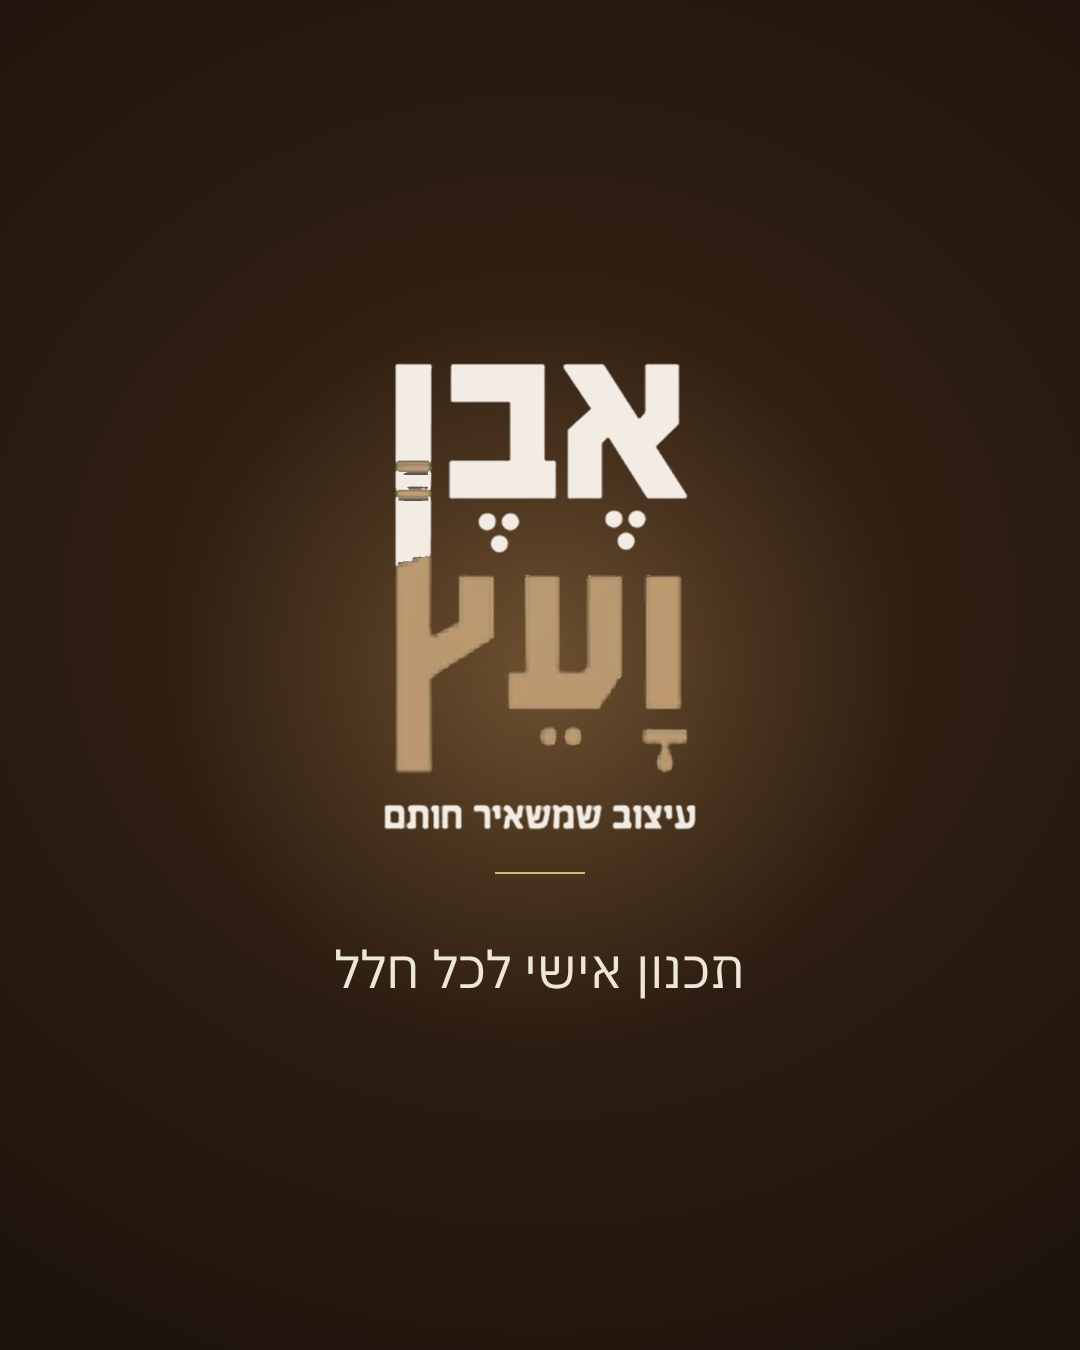
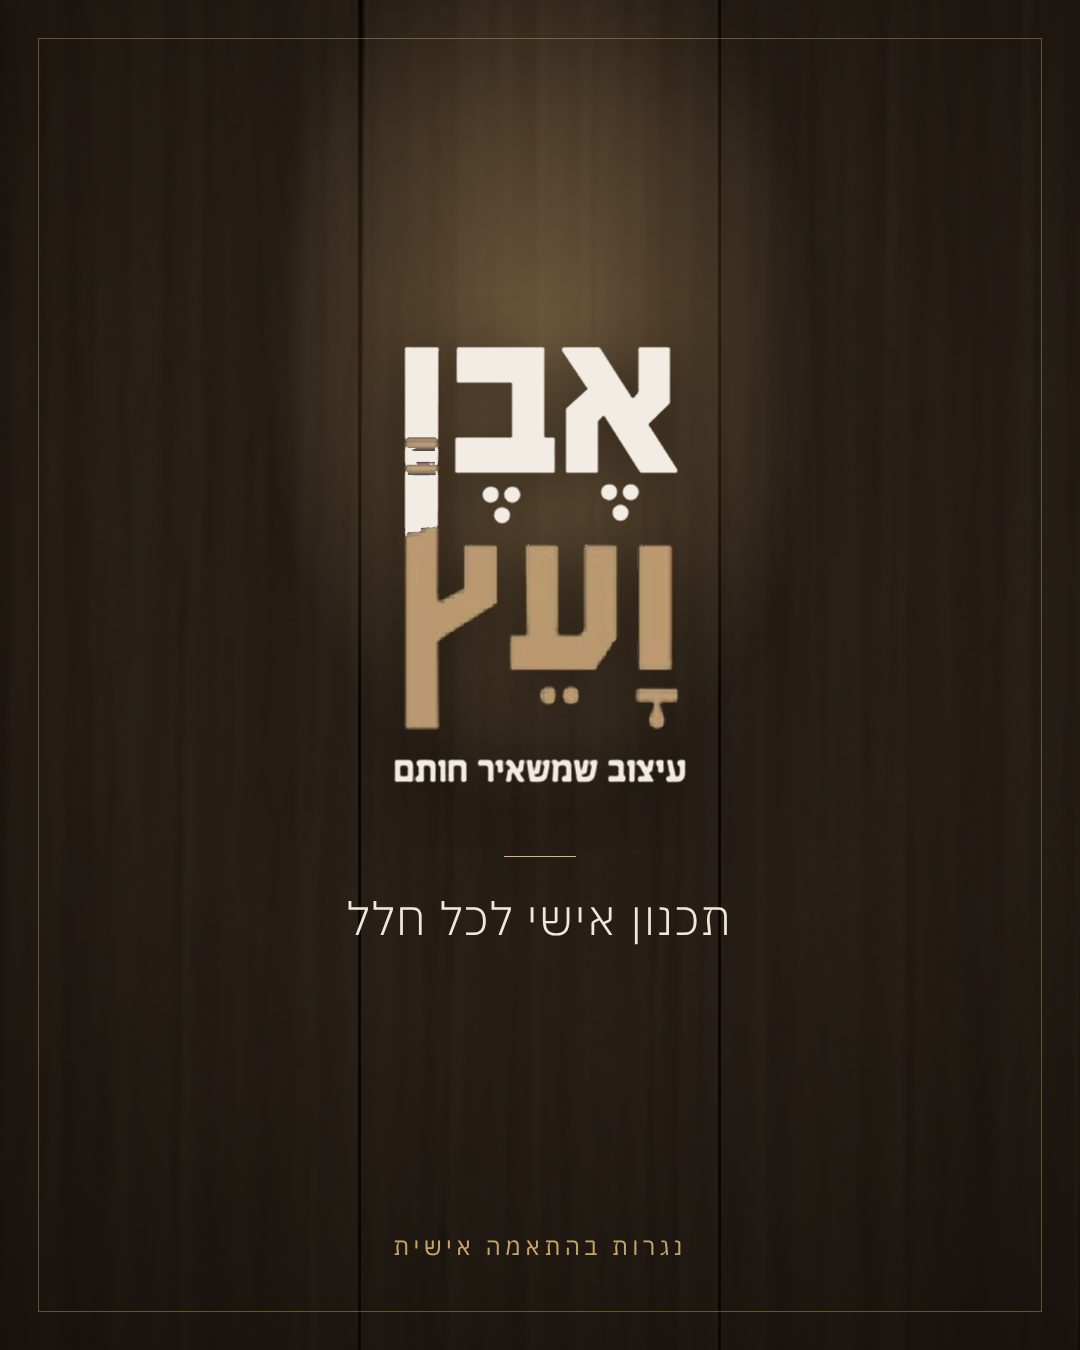
Brand end slide v2 for every post (oak-front wall, light wash, gold hairline); oak living room published
Claude-Session: https://claude.ai/code/session_018GBcWtf2Dx96BqNakmVjJd

diff --git a/studio/lib/post-template.html b/studio/lib/post-template.html
@@ -30,13 +30,20 @@ body{width:1080px}
 .lab i{display:block;width:46px;height:2px;background:var(--bronze)}
 .lab b{font-weight:600;color:#8a5a26}
 .logo{position:absolute;width:150px}
-/* closing slide (P11): the reel end card (#end in reel-kit.css) at 4:5. Full slide, logo is the hero; no split, no collage.
-   Optional: one short line under the logo, like the reel. */
-.end{background:radial-gradient(110% 80% at 50% 45%,#3b2617 0%,#1f140c 75%);display:flex;flex-direction:column;align-items:center;justify-content:center}
-.end .glow{position:absolute;left:165px;top:300px;width:750px;height:750px;border-radius:50%;background:radial-gradient(circle,rgba(216,170,100,.32) 0%,rgba(216,170,100,.12) 40%,rgba(216,170,100,0) 70%)}
-.end .logo{position:relative;width:340px}
-.end .line{position:relative;direction:rtl;text-align:center;margin-top:64px;font:600 58px/1.2 "Plex";color:#fff}
-.end .line em{font-style:normal;color:var(--gold)}
+/* closing slide v2 (P11, her request 13.10: "מעוצב יותר מרשים מקצועי ואלגנטי") — the brand standard for EVERY post:
+   dark wall of three real oak fronts (studio/brand/end_oak_wall.png, from her work), soft light washing down onto the logo
+   (the brand's lit-carpentry signature), hairline gold frame, Plex Light line + small gold sub-line. No split, no collage.
+   Change only the .line text per post (one short brand sentence); keep everything else. */
+@font-face{font-family:"PlexL";src:url(plex-Light.ttf);font-weight:300}
+.end{background:#140d08 url(end_oak_wall.png) center/cover}
+.end .wash{position:absolute;inset:0;background:radial-gradient(34% 46% at 50% 26%,rgba(255,200,130,.34) 0%,rgba(230,170,100,.16) 45%,rgba(0,0,0,0) 75%);mix-blend-mode:screen}
+.end .vig{position:absolute;inset:0;background:radial-gradient(90% 75% at 50% 42%,rgba(0,0,0,0) 45%,rgba(10,6,3,.55) 100%)}
+.end .frame{position:absolute;inset:38px;border:1px solid rgba(216,184,120,.38)}
+.end .in{position:absolute;left:0;right:0;top:0;bottom:70px;display:flex;flex-direction:column;align-items:center;justify-content:center}
+.end .lg{width:318px;filter:drop-shadow(0 10px 28px rgba(0,0,0,.45))}
+.end .rule{width:72px;height:1px;background:#d8b878;margin-top:58px}
+.end .line{direction:rtl;margin-top:34px;font:300 46px/1.2 "PlexL";color:#f1e7da;letter-spacing:.04em}
+.end .sub{position:absolute;left:0;right:0;bottom:92px;direction:rtl;text-align:center;font:400 24px/1 "Plex";color:#c9a46a;letter-spacing:.18em}
 </style>
 </head>
 <body>
@@ -51,10 +58,10 @@ body{width:1080px}
   <img class="full" src="p3.png" alt="" />
   <div class="quiet" style="right:70px;bottom:120px"><h2>נושא קצר</h2><p>תובנה אל הצופה, לא לפי X, לפי Y</p></div>
 </section>
-<section class="slide end" id="s4">
-  <div class="glow"></div>
-  <img class="logo" src="logo_light.png" alt="אבן ועץ" />
-  <!-- optional, max one short line: <div class="line">שורה<br /><em>קצרה.</em></div> -->
+<section class="slide end" id="sEnd">
+  <div class="wash"></div><div class="vig"></div><div class="frame"></div>
+  <div class="in"><img class="lg" src="logo_light.png" alt="אבן ועץ" /><div class="rule"></div><div class="line">תכנון אישי לכל חלל</div></div>
+  <div class="sub">נגרות בהתאמה אישית</div>
 </section>
 </body>
 </html>

diff --git a/projects/2026-10-oak-living-room/carousel/slides.html b/projects/2026-10-oak-living-room/carousel/slides.html
@@ -28,11 +28,20 @@ body{width:1080px}
 .d img{display:block;width:100%;box-shadow:0 14px 34px rgba(60,40,20,.16)}
 .d figcaption{margin-top:16px;font:400 25px/1.4 "Plex";color:var(--ink)}
 .d b{display:block;font:500 31px/1.2 "Plex";color:var(--gold);margin-bottom:5px}
-.end{background:radial-gradient(110% 80% at 50% 45%,#3b2617 0%,#1f140c 75%);display:flex;flex-direction:column;align-items:center;justify-content:center}
-.end .glow{position:absolute;left:165px;top:300px;width:750px;height:750px;border-radius:50%;background:radial-gradient(circle,rgba(216,170,100,.32) 0%,rgba(216,170,100,.12) 40%,rgba(216,170,100,0) 70%)}
-.end .lg{position:relative;width:340px}
-.end .line{position:relative;direction:rtl;text-align:center;margin-top:64px;font:400 52px/1.2 "Plex";color:var(--cream);letter-spacing:.01em}
-.end .rule{position:relative;width:90px;height:2px;background:var(--gold-l);margin-top:26px}
+/* closing slide v2 (P11, her request 13.10: "מעוצב יותר מרשים מקצועי ואלגנטי") — the brand standard for EVERY post:
+   dark wall of three real oak fronts (studio/brand/end_oak_wall.png, from her work), soft light washing down onto the logo
+   (the brand's lit-carpentry signature), hairline gold frame, Plex Light line + small gold sub-line. No split, no collage.
+   Change only the .line text per post (one short brand sentence); keep everything else. */
+@font-face{font-family:"PlexL";src:url(plex-Light.ttf);font-weight:300}
+.end{background:#140d08 url(end_oak_wall.png) center/cover}
+.end .wash{position:absolute;inset:0;background:radial-gradient(34% 46% at 50% 26%,rgba(255,200,130,.34) 0%,rgba(230,170,100,.16) 45%,rgba(0,0,0,0) 75%);mix-blend-mode:screen}
+.end .vig{position:absolute;inset:0;background:radial-gradient(90% 75% at 50% 42%,rgba(0,0,0,0) 45%,rgba(10,6,3,.55) 100%)}
+.end .frame{position:absolute;inset:38px;border:1px solid rgba(216,184,120,.38)}
+.end .in{position:absolute;left:0;right:0;top:0;bottom:70px;display:flex;flex-direction:column;align-items:center;justify-content:center}
+.end .lg{width:318px;filter:drop-shadow(0 10px 28px rgba(0,0,0,.45))}
+.end .rule{width:72px;height:1px;background:#d8b878;margin-top:58px}
+.end .line{direction:rtl;margin-top:34px;font:300 46px/1.2 "PlexL";color:#f1e7da;letter-spacing:.04em}
+.end .sub{position:absolute;left:0;right:0;bottom:92px;direction:rtl;text-align:center;font:400 24px/1 "Plex";color:#c9a46a;letter-spacing:.18em}
 </style>
 </head>
 <body>
@@ -59,10 +68,9 @@ body{width:1080px}
   <img class="logo" src="logo_alpha.png" alt="אבן ועץ" style="right:auto;left:48px" />
 </section>
 <section class="slide end" id="s5">
-  <div class="glow"></div>
-  <img class="lg" src="logo_light.png" alt="אבן ועץ" />
-  <div class="rule"></div>
-  <div class="line">תכנון אישי לכל חלל</div>
+  <div class="wash"></div><div class="vig"></div><div class="frame"></div>
+  <div class="in"><img class="lg" src="logo_light.png" alt="אבן ועץ" /><div class="rule"></div><div class="line">תכנון אישי לכל חלל</div></div>
+  <div class="sub">נגרות בהתאמה אישית</div>
 </section>
 </body>
 </html>

diff --git a/knowledge/learning/client-voice.md b/knowledge/learning/client-voice.md
@@ -146,7 +146,8 @@
 **P11. אורך דינמי. השקף האחרון: תמונה שלמה עם הלוגו בלבד, מעוצבת כמו סוף הרילס.**
 - **תמונת "הארון המוכן עם האיבזור"** (נישה מוארת עם חפצים) היא תמונת הסיכום: מתאימה לשקף שמסכם את הרעיון (למשל שאלת התכנון). עוגן: "זה מסכם הכל כי זה הארון מוכן עם האיבזור" (13.10).
 - אין תקרה. האורך נקבע לפי כמה רעיונות טובים יש. פוסט ארוך עם הצדקה רצוי. רצפה: 3 תמונות של העבודה.
-- **שקף הסיום = כרטיס הסיום של הרילס בגרסת 4:5**: שקף מלא אחד, הלוגו במרכז והוא הגיבור, ורקע מעוצב בשפת הסיום של הרילס (גוני עץ חמים, זוהר זהב רך). **בלי פריסה מפוצלת, בלי קולאז' ובלי עומס טקסט.** לכל היותר שורה קצרה אחת מתחת ללוגו, כמו ברילס.
+- **שקף הסיום v2 (13.10) = התקן הקבוע לכל פוסט:** קיר כהה משלוש חזיתות אלון אמיתיות מהעבודה (`studio/brand/end_oak_wall.png`), אור רך שיורד על הלוגו (חתימת התאורה בנגרות), מסגרת זהב דקה, שורת מותג ב-Plex Light ושורת משנה קטנה בזהב "נגרות בהתאמה אישית". נבנה אוטומטית מ-`studio/lib/post-template.html`; משנים רק את שורת המותג. עוגן: "לעצב לי מחדש את התמונה האחרונה בשביל כל פוסט... שיהיה מעוצב יותר מרשים מקצועי ואלגנטי".
+- (הגרסה הקודמת, הוחלפה ב-v2:) **שקף הסיום = כרטיס הסיום של הרילס בגרסת 4:5**: שקף מלא אחד, הלוגו במרכז והוא הגיבור, ורקע מעוצב בשפת הסיום של הרילס (גוני עץ חמים, זוהר זהב רך). **בלי פריסה מפוצלת, בלי קולאז' ובלי עומס טקסט.** לכל היותר שורה קצרה אחת מתחת ללוגו, כמו ברילס.
 - השורה בשקף הסיום: משפט מותג על השירות. "תכנון אישי לכל חלל" החליף את "נתכנן את שלכם" (13.10: "בשקף 5 תחליף ל- תכנון אישי לכל חלל").
 - עוגן: "המינימום 3 תמונות ובסוף הלוגו של החברה" (11.10); "התכוונתי לתמונה שלמה רק עם הלוגו בצורה מעוצבת כמובן, בדיוק כמו שאתה עושה בסוף כל רילס" (12.10).
 
@@ -205,6 +206,7 @@
 | קיר המזנון, רילס (`projects/2026-10-warm-light-wall/output/`) | "שקיעה על הקיר", יום←ערב לאורך המזנון | "העניין עם האור אהבתי מאוד... מעולה לפרסום" |
 | ארון ילדים, פוסט (flow2) | תמונות נקיות | "יותר אהבתי כי התמונות היו נקיות יותר" |
 | ארון סהרה עם נישת אלון, רילס v2 (`projects/2026-10-glass-niche-closet/reel/`) | מצלמה אחת רציפה עם Speed ramp, כל תא בנישה נדלק לבד על הביט עם Punch (אור מהצילום החזיתי בלבד), פתיחת 4 דלתות בגל, Snap עם טשטוש, סגירה, אותו פריים מתמלא בחפצים, כיתוב בצבע אחד, הזמנה "דברו איתנו בוואטסאפ" | "את הרילס אהבתי" (13.10) |
+| סלון אלון, רילס v4 + פוסט (`projects/2026-10-oak-living-room/output/`) | רילס: משיכה לאחור תואמת מקיר הטלוויזיה לחדר, "ערב יורד" (האור האמיתי נשאר), ירידה לאורך הוויטרינה המוארת. פוסט: Hero שקט, שקף פרטים מקצועי (שם + הסבר), ויטרינה "אור בכל מדף" | "מושלם" / "יפה העלתי" (13.10, פורסם) |
 | ארון סהרה, רילס v4 + פוסט (`projects/2026-10-glass-niche-closet/output/`) | רילס: v2 + צלילה לתקריב אמיתי של הנישה והחוצה, דלתות שנוחתות על הדלת האמיתית, מעברים קצרים, כיתוב בגווני הלוגו. פוסט: Plex Regular קטן מיושר לעבודה (אפשרות ג), ארון שלם עד הסוקל, לוגו קטן למטה בכל תמונה | "מהמם. העלתי" (13.10, פורסם) |
 | קיר לאטה, פוסט v3 | טיזר על החזיתות ← הקיר פתוח | "אהבתי שזה נקי ולא מקושקש" (אבל החיתוך שם לא הדגיש שום פרט) |
 

diff --git a/knowledge/learning/content-log.md b/knowledge/learning/content-log.md
@@ -23,7 +23,7 @@
 
 | 9 | ארון סהרה עם נישת אלון מוארת | (v2) מצלמה אחת, Speed ramp, "מקיר לקיר, / עד התקרה." ← **מהלך חתימה: כל תא בנישה נדלק לבד על הביט עם Punch** ← Pull-out ← 4 דלתות נפתחות בגל סביב נישה דולקת "ובפנים, / כל סנטימטר עובד." ← Whip לנישה עם פריטים "תוכנן / בשבילכם." ← ייעוץ והדמיה | **כותרת מפוצלת טיפוגרפית** (Plex Light + Heebo 850, דיו + אלון) "רוב הארונות / רק מסתירים." ← "זה / גם מציג." (חיתוך נישה), פתוח, שלם, זווית "מה אתם רוצים לראות?", סיום "נתכנן את שלכם." | רילס: חשיפה ופניות (התאמה וניצול חלל). פוסט: פניות (תכנון אישי) | ✅ נמסר |
 
-| 10 | סלון אלון: קיר TV צף + קיר נישה (תמונות דלות) | פריים 0 קיר TV בדחיפה, Hook "קיר טלוויזיה? / זה רק ההתחלה." ← Whip לחדר כולו ← **מהלך חתימה: "ערב יורד"** (גרסת ערב עולה מהרצפה, האור האמיתי נשאר) ← צלילה דרך הנישה לקיר הנישה בערב ← (v2) Speed ramp לראש הוויטרינה וירידה לאורך המדפים המוארים ← Motion dissolve לקיר TV בערב ← האורות חוזרים מלמעלה ← "דברו איתנו / בוואטסאפ" | **Hero שקט (סגנון ג)** "שני קירות, / שפה אחת." + קיר TV "הקווים ממשיכים / גם מתחת למזנון." + **שקף "3 פרטים" מגזיני על שדה אלון** (שם הפתרון + משפט מקצועי) + קיר שלם + לוגו. פנייה: כיתוב | רילס: חשיפה (תכנון החלל כולו). פוסט: אמון (דיוק ותכנון) | ✅ נמסר |
+| 10 | סלון אלון: קיר TV צף + קיר נישה (תמונות דלות) | פריים 0 קיר TV בדחיפה, Hook "קיר טלוויזיה? / זה רק ההתחלה." ← Whip לחדר כולו ← **מהלך חתימה: "ערב יורד"** (גרסת ערב עולה מהרצפה, האור האמיתי נשאר) ← צלילה דרך הנישה לקיר הנישה בערב ← (v2) Speed ramp לראש הוויטרינה וירידה לאורך המדפים המוארים ← Motion dissolve לקיר TV בערב ← האורות חוזרים מלמעלה ← "דברו איתנו / בוואטסאפ" | **Hero שקט (סגנון ג)** "שני קירות, / שפה אחת." + קיר TV "הקווים ממשיכים / גם מתחת למזנון." + **שקף "3 פרטים" מגזיני על שדה אלון** (שם הפתרון + משפט מקצועי) + קיר שלם + לוגו. פנייה: כיתוב | רילס: חשיפה (תכנון החלל כולו). פוסט: אמון (דיוק ותכנון) | ✅ פורסם ("יפה העלתי") |
 
 ## מונה סבבים אצלה (יעד: 0–1)
 | פרויקט | סבבים | הערה |

diff --git a/projects/2026-10-oak-living-room/PROJECT.md b/projects/2026-10-oak-living-room/PROJECT.md
@@ -39,3 +39,4 @@
 - סבב 2 אצלה (13.10): "תשפר את רזולוציית התמונות" + ברילס הקטע של הריבועים המוקטנים "לא מקצועי... סתם מה שיצא יצא", "אולי משהו עם המדפים המוארים... תנועת מצלמה כזאת שיורדת", "תקפיץ את הרילס לרמה אחת מעל". ← הגדלת AI (ESRGAN ×4 דרך UpscalerJS/tfjs-node, `flow/upscale_ai.js`, ואז ×2 ב-`flow/enhance.py`; סטיית צבע <1). הפרץ הוחלף: Speed ramp אל ראש הוויטרינה המוארת וירידה לאורך המדפים עד הרצפה (הרחבת קיר כהה מימין, `flow/extend_right.py`), Motion dissolve לקיר הטלוויזיה בערב שממשיך לרדת. כלל חדש ב-client-voice (R11) וב-`agents/reel.md`. נמסר v2.
 - 13.10: היא שלחה תמונה חשובה שנשכחה (05, קיר הנישה בזווית, חדה, הוויטרינה גדולה). ← הגדלת AI + גרסת ערב (פוליגונים לנישה ולוויטרינה ב-`flow/night.py`). רילס v3: כל קטע קיר הנישה מהתמונה החדשה (צלילה, קיר שלם 2 שנ', Speed ramp וירידה לאורך הוויטרינה בקרבה ×2); הרחבת הקיר (extend_right) כבר לא בשימוש. פוסט: שקף 4 = התמונה החדשה עם "ויטרינה מוארת, / אור בכל מדף.", לוגו משמאל על הרצפה. reel_qa PASS. נמסר v3.
 - 13.10: "מושלם" ← בקשה: "הקפיצה בין שניה 2 ל3... מרגישה כמו באג". ה-Whip הוחלף במשיכה לאחור תואמת: הטלוויזיה מוצבת באותו מקום ובאותו גודל בשתי התמונות (נמדד, ×1.585) ו-Dissolve של 0.32 שנ' עם טשטוש קל בשיא (הסתרת זווית הצילום השונה), והמצלמה ממשיכה לסגת לחדר כולו. reel_qa PASS. נמסר v4.
+- 13.10: "יפה העלתי" (פורסם). בקשה: שקף לוגו חדש לכל פוסט, "יותר מרשים מקצועי ואלגנטי" ← שקף סיום v2 בתבנית (`studio/lib/post-template.html`, `studio/brand/end_oak_wall.png`), הוחל גם על שקף 5 כאן.

diff --git a/agents/post-designer.md b/agents/post-designer.md
@@ -11,7 +11,7 @@
 
 ## 2. אורך ושקף סיום (P11)
 - דינמי, לפי הפרויקט וכמה רעיונות טובים יש. פוסט ארוך עם הצדקה רצוי. לא מוסיפים שקף חלש בשביל אורך.
-- **רצפה: 3 תמונות של העבודה, ובסוף שקף לוגו (P11, 12.10): "תמונה שלמה רק עם הלוגו בצורה מעוצבת, בדיוק כמו בסוף כל רילס".** = כרטיס הסיום של הרילס (`#end` ב-`studio/lib/reel-kit.css`) בגרסת 1080×1350: שקף מלא, רקע רדיאלי בגוני עץ חמים (#3b2617 ← #1f140c) עם זוהר זהב רך, `logo_light.png` גדול במרכז (~340px). לכל היותר שורה קצרה אחת מתחת (Heebo/Plex, לבן + זהב), כמו ברילס. **בלי פיצול, בלי קולאז', בלי חצי צילום.** פרטי קשר רק מעובדות מאושרות.
+- **רצפה: 3 תמונות של העבודה, ובסוף שקף לוגו (P11, 12.10): "תמונה שלמה רק עם הלוגו בצורה מעוצבת, בדיוק כמו בסוף כל רילס".** = **שקף הסיום v2 מ-`studio/lib/post-template.html`** (13.10: קיר חזיתות אלון כהה, אור רך על הלוגו, מסגרת זהב דקה; משנים רק את שורת המותג). הגרסה הישנה: כרטיס הסיום של הרילס (`#end` ב-`studio/lib/reel-kit.css`) בגרסת 1080×1350: שקף מלא, רקע רדיאלי בגוני עץ חמים (#3b2617 ← #1f140c) עם זוהר זהב רך, `logo_light.png` גדול במרכז (~340px). לכל היותר שורה קצרה אחת מתחת (Heebo/Plex, לבן + זהב), כמו ברילס. **בלי פיצול, בלי קולאז', בלי חצי צילום.** פרטי קשר רק מעובדות מאושרות.
 - שקף 2 הוא "שער שני" (אינסטגרם מציג אותו מחדש): חייב לעבוד לבד.
 
 ## 3. תמונה נקייה ושלמה (P4, P5, P6)
